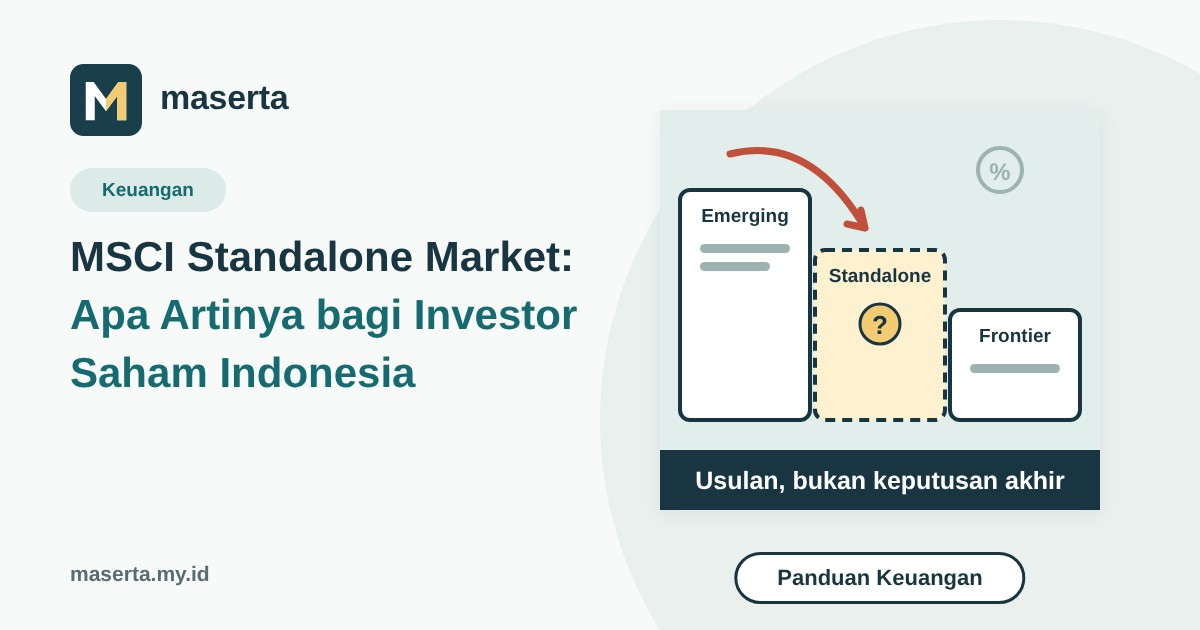
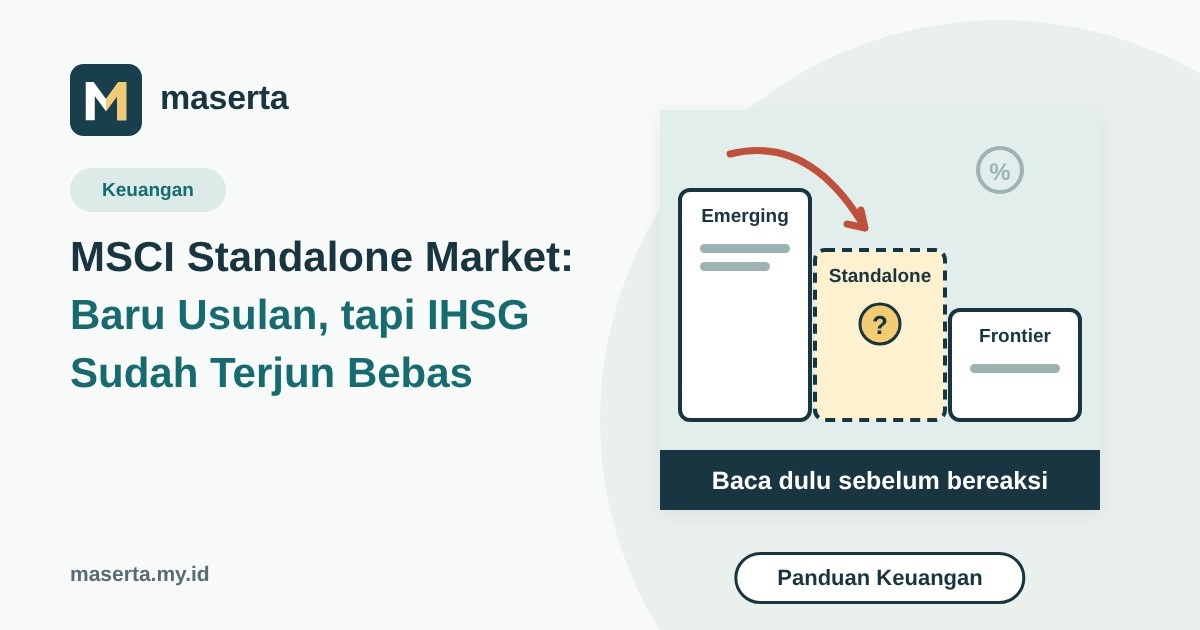
feat(artikel): sharpen MSCI standalone article titles and OG image
Titles updated on the live article (id 99) through the admin edit form; OG image replaced to match.

Claude-Session: https://claude.ai/code/session_012HobSBrsNFNH4Xov81DHn3

Changed region(s): [[0.0617, 0.4524, 0.4933, 0.5429], [0.0617, 0.573, 0.4008, 0.6333], [0.5858, 0.754, 0.8942, 0.7841]]

diff --git a/artikel/keuangan/msci-standalone-market-indonesia-arti-bagi-investor.en.md b/artikel/keuangan/msci-standalone-market-indonesia-arti-bagi-investor.en.md
@@ -1,5 +1,5 @@
 ---
-title: "MSCI Standalone Market: What It Means for Indonesian Stock Investors"
+title: "MSCI Standalone Market: Only a Proposal, Yet Stocks Already Plunged"
 meta_description: "MSCI opened a consultation on moving Indonesia to MSCI standalone market status: what it says, why stocks fell, what is uncertain, and what retail investors do."
 slug: "msci-standalone-market-indonesia-arti-bagi-investor"
 focus_keyword: "MSCI standalone market"
@@ -9,7 +9,7 @@ date: "2026-10-16"
 lang: "en"
 ---
 
-# MSCI Standalone Market: What It Means for Indonesian Stock Investors
+# MSCI Standalone Market: Only a Proposal, Yet Stocks Already Plunged
 
 Friday morning, 16 October 2026. Indonesia's main stock index, the IHSG, opened down about 8 percent, and the Indonesia Stock Exchange halted trading for 30 minutes. The trigger was news from the night before: MSCI had opened a consultation on a proposal to move Indonesia to **MSCI standalone market** status. If you read the headline and felt your stomach drop, take a breath first. A lot here hasn't been decided yet.
 

diff --git a/artikel/keuangan/msci-standalone-market-indonesia-arti-bagi-investor.md b/artikel/keuangan/msci-standalone-market-indonesia-arti-bagi-investor.md
@@ -1,5 +1,5 @@
 ---
-title: "MSCI Standalone Market: Apa Artinya bagi Investor Saham Indonesia"
+title: "MSCI Standalone Market: Baru Usulan, tapi IHSG Sudah Terjun Bebas"
 meta_description: "MSCI membuka konsultasi memindahkan Indonesia ke MSCI standalone market. Apa isinya, mengapa IHSG anjlok, apa yang belum pasti, dan sikap bagi investor ritel."
 slug: "msci-standalone-market-indonesia-arti-bagi-investor"
 focus_keyword: "MSCI standalone market"
@@ -19,7 +19,7 @@ date: "2026-10-16"
 lang: "id"
 ---
 
-# MSCI Standalone Market: Apa Artinya bagi Investor Saham Indonesia
+# MSCI Standalone Market: Baru Usulan, tapi IHSG Sudah Terjun Bebas
 
 Jumat pagi, 16 Oktober 2026. IHSG dibuka turun sekitar 8 persen, dan Bursa Efek Indonesia menghentikan perdagangan selama 30 menit. Pemicunya satu kabar dari malam sebelumnya: MSCI membuka konsultasi atas usulan memindahkan Indonesia ke **MSCI standalone market**. Kalau Anda membaca judul beritanya lalu langsung panik, tarik napas dulu. Banyak hal di sini belum diputuskan.
 
